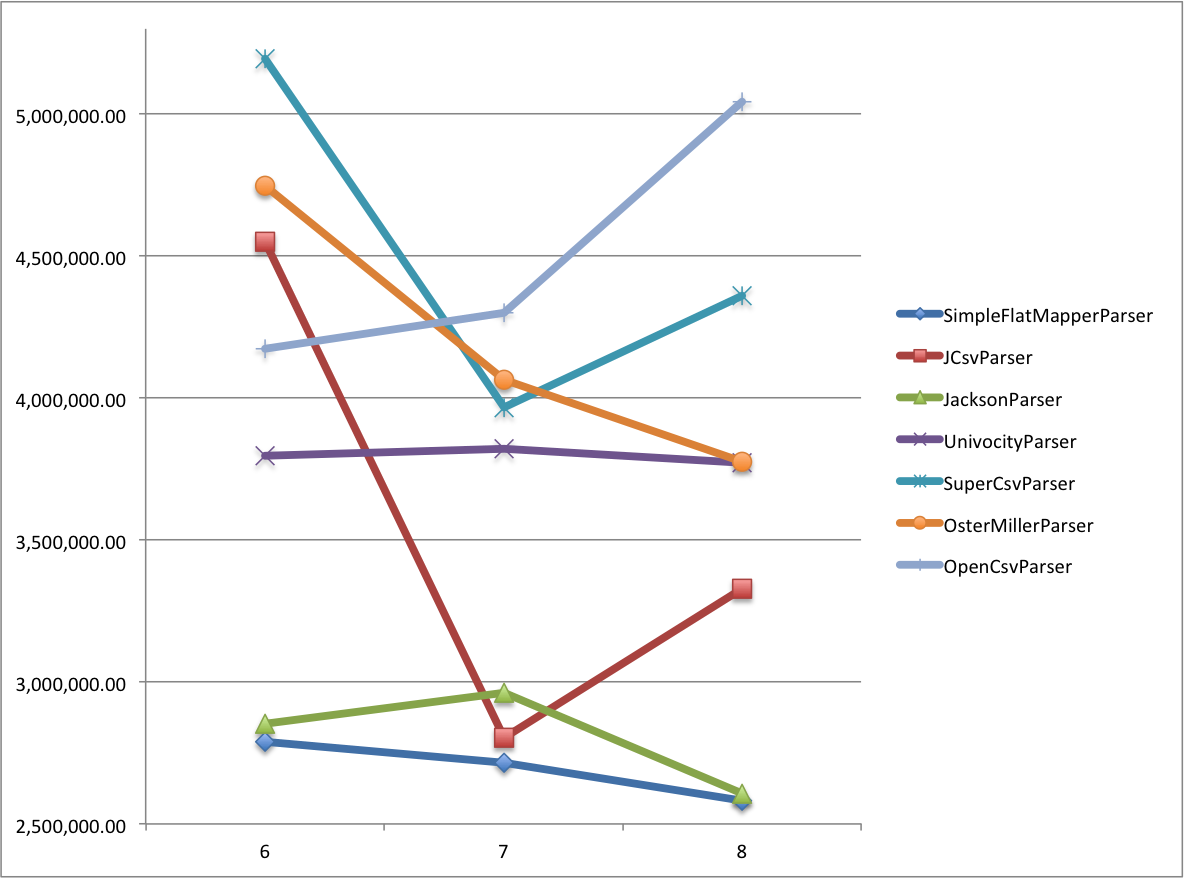
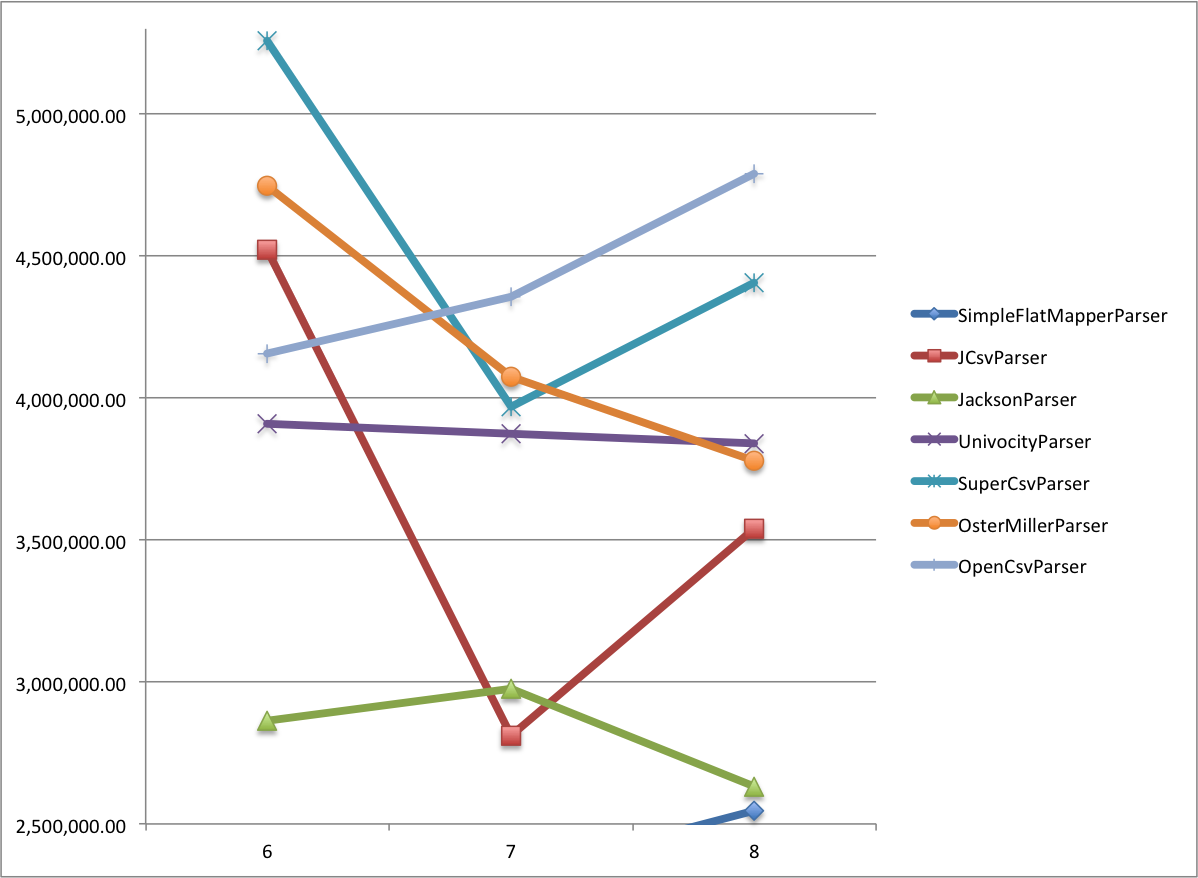
update java crossversion

diff --git a/README.md b/README.md
@@ -194,13 +194,13 @@ the unit is us per reading the file of 3173959 rows. The lower the better.
 
 |Parser|Java 6|Java 7|Java 8
 |----|---:|---:|----:|
-|SimpleFlatMapperParser|2,789,921.22|2,714,072.18|2,581,990.07
-|JCsvParser|4,549,693.90|2,802,376.69|3,328,120.16
-|JacksonParser|2,851,125.72|2,960,501.85|2,607,463.27
-|UnivocityParser|3,795,047.80|3,822,596.72|3,770,764.67
-|SuperCsvParser|5,196,234.91|3,967,037.89|4,359,582.60
-|OsterMillerParser|4,746,071.90|4,064,797.80|3,775,870.09
-|OpenCsvParser|4,172,193.53|4,300,140.60|5,041,943.11
+|SimpleFlatMapperParser|2,342,475.25|2,321,910.07|2,544,713.83
+|JCsvParser|4,522,937.51|2,811,022.42|3,538,204.72
+|JacksonParser|2,862,200.83|2,976,824.49|2,632,276.44
+|UnivocityParser|3,909,024.04|3,875,463.28|3,840,187.86
+|SuperCsvParser|5,256,495.20|3,968,221.65|4,406,608.49
+|OsterMillerParser|4,746,388.14|4,075,179.72|3,778,397.37
+|OpenCsvParser|4,156,496.28|4,355,408.10|4,789,898.43
 
 ![Effect of java version](https://raw.githubusercontent.com/arnaudroger/csv-parsers-comparison/master/src/main/resources/charts/javacrossversion.png)
 
